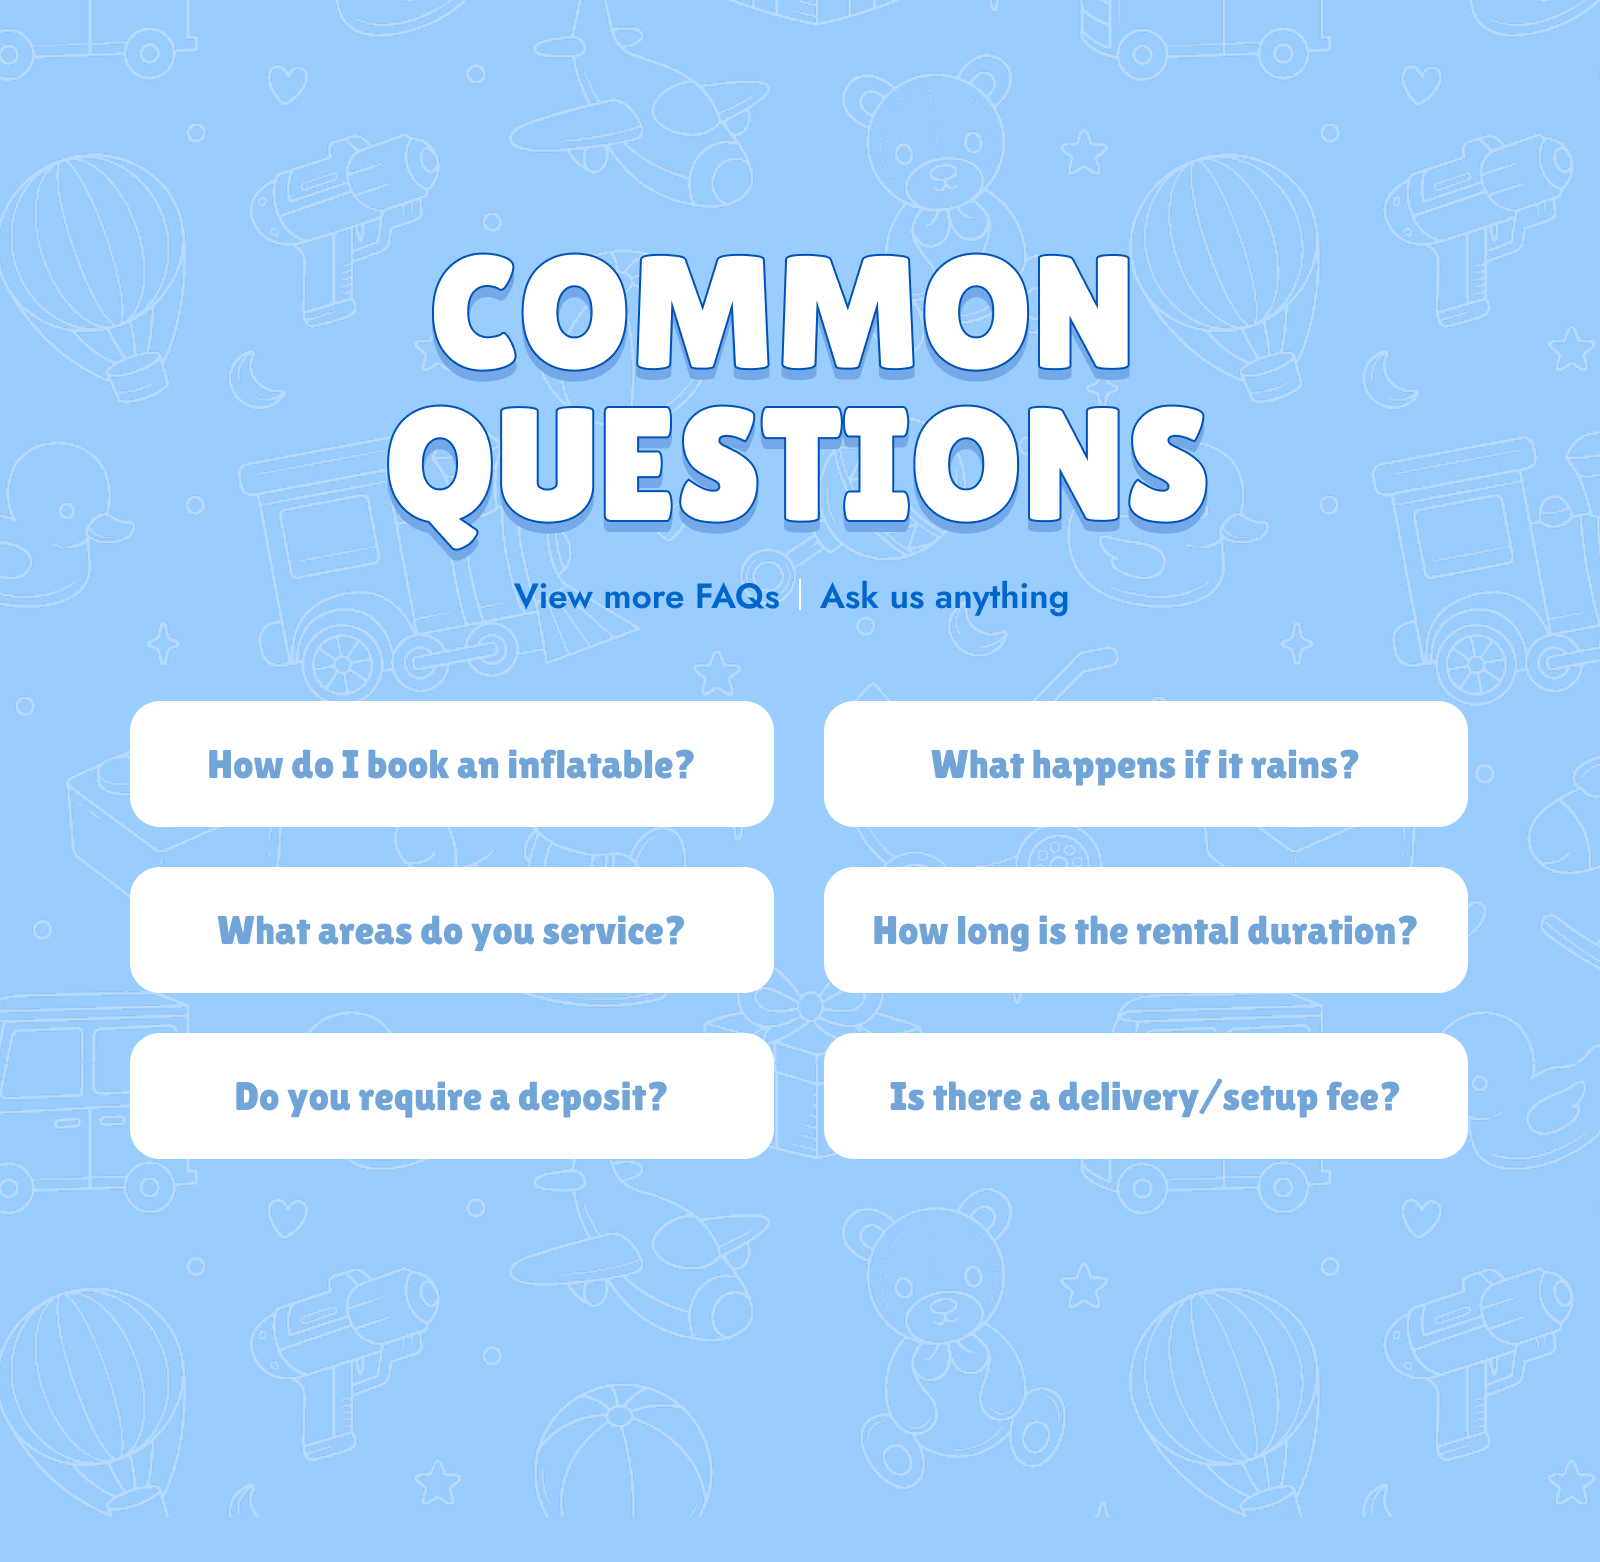
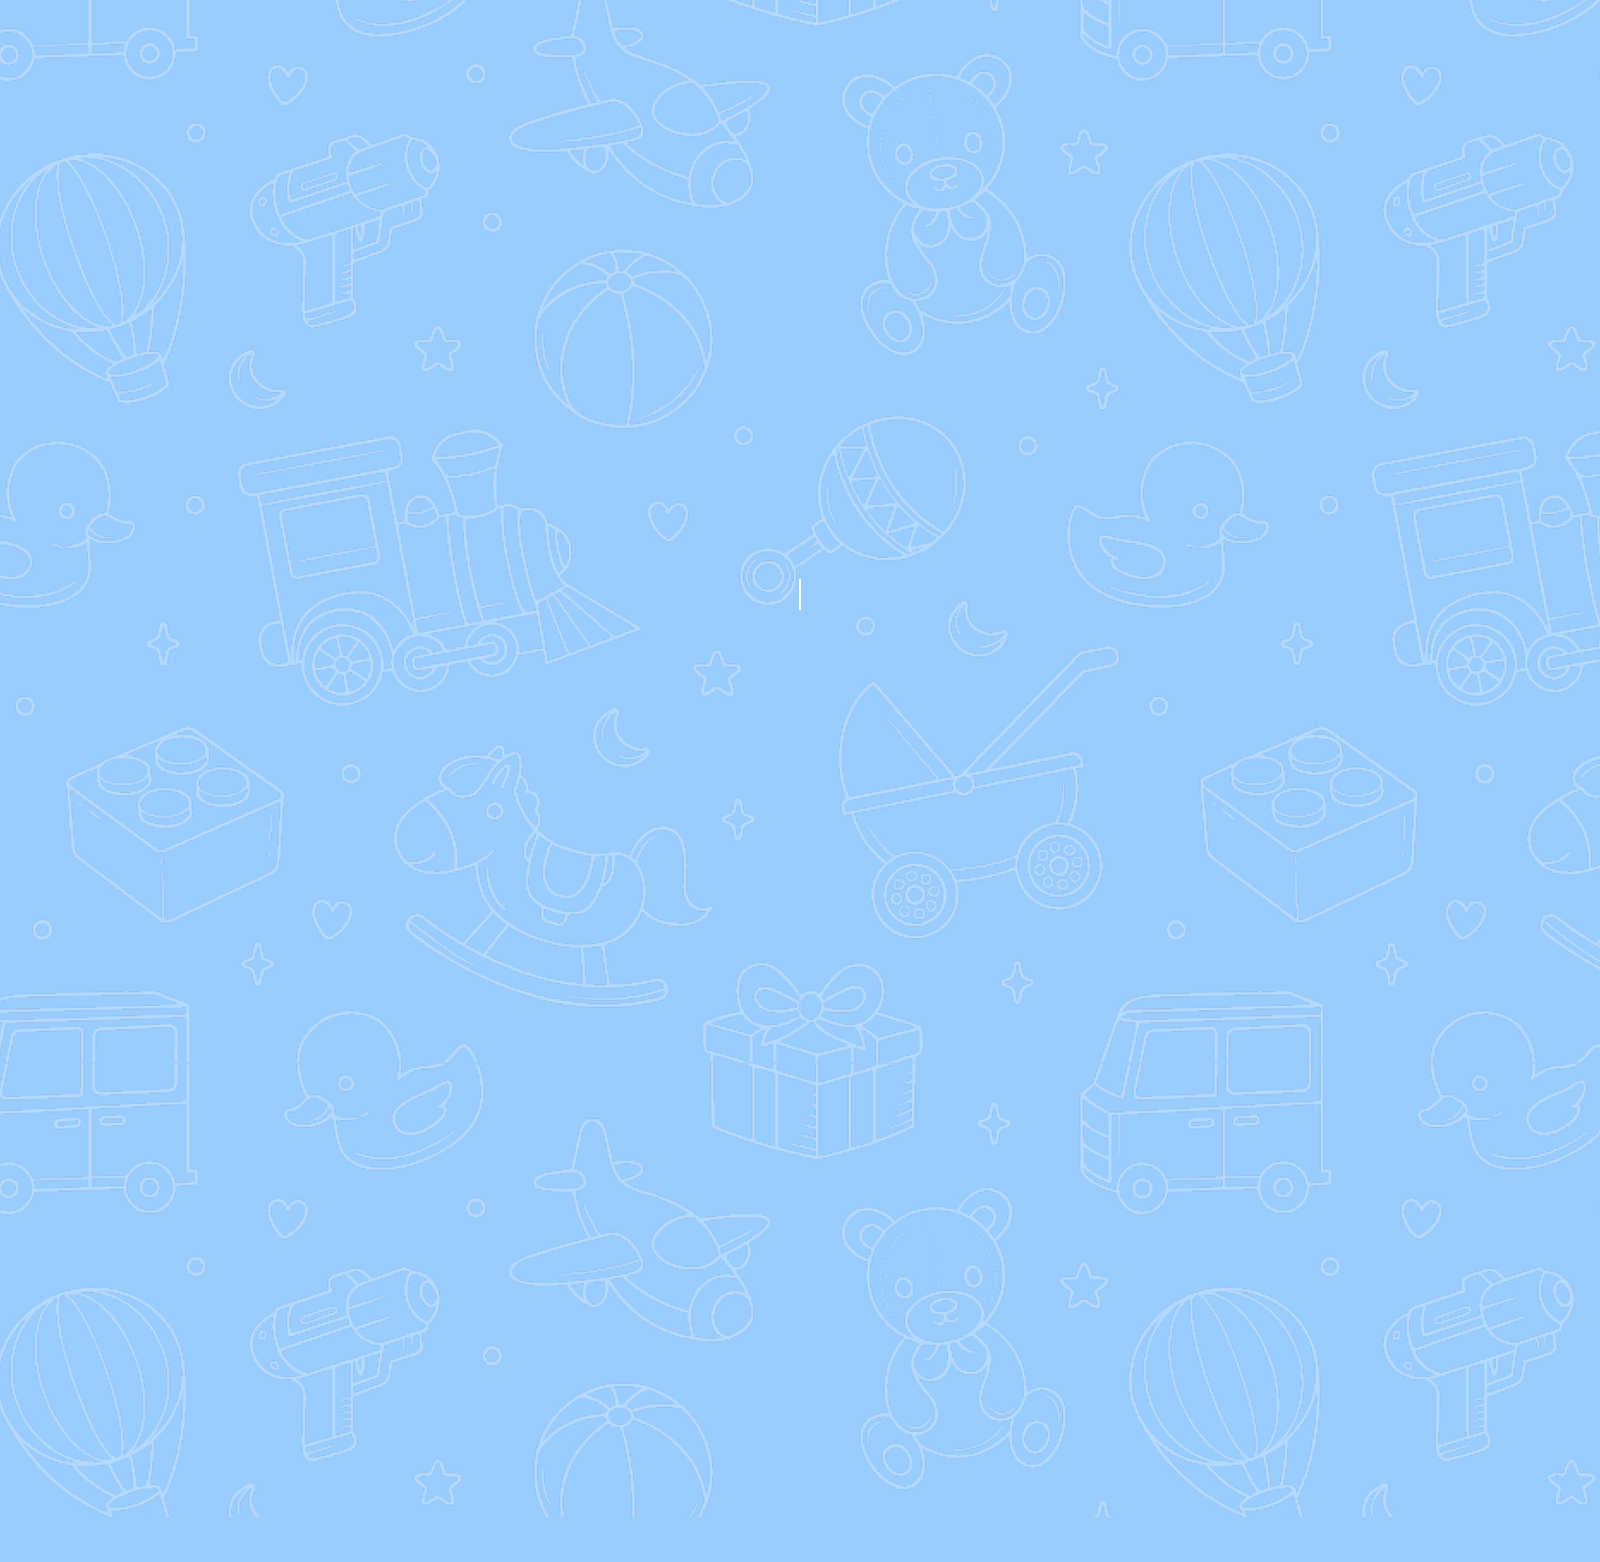
fixed common questions

Changed region(s): [[0.0625, 0.4302, 0.9375, 0.7682], [0.2188, 0.1536, 0.75, 0.3688], [0.3125, 0.3688, 0.6875, 0.3995]]

diff --git a/public/css/home.css b/public/css/home.css
@@ -439,7 +439,6 @@ body {
     margin-bottom: 12px;
 }
 
-
 .menu-tab:hover,
 .menu-tab.active {
     transform: translateY(-2px);
@@ -483,3 +482,58 @@ body {
         transform: translateY(-60px); /* or -5px for subtler bounce */
     }
 }
+
+/***********************************************************************
+ * COMMON QUESTIONS SECTION 
+ ***********************************************************************/
+/* Whole section background */
+
+.common-questions-section {
+    background: url('../images/imgCommonQuestionsBackground.png') no-repeat center center / cover;
+    /* background: sets the image */
+    /* no-repeat: avoids tiling */
+    /* center center: aligns image */
+    /* cover: scales image to fill */
+}
+
+/* Header image (the "COMMON QUESTIONS" graphic) */
+.common-questions-header img {
+    max-width: 880px; /* limit size */
+    width: 100%; /* responsive */
+}
+
+/* Link styling for "View more FAQs" and "Ask us anything" */
+.common-questions-links a {
+    font-family: 'Jost', sans-serif;
+    font-weight: 600; /* semi-bold */
+    color: #0066CC; /* brand blue */
+    text-decoration: none;
+    margin: 0 1rem; /* spacing between links */
+    font-size: 1.5rem;
+}
+
+/* FAQ buttons container is Bootstrap row — no custom needed here */
+
+/* FAQ button styles */
+.faq-button {
+    background-color: #FFFFFF; /* white background */
+    color: #71A4D7; /* sky blue text */
+    border: none; /* remove default border */
+    border-radius: 25px; /* fully rounded edges */
+    padding: 1.5rem 2rem; /* vertical | horizontal space inside */
+    font-size: 1.5rem; /* button text size */
+    font-family: 'Lilita One', cursive; /* button font */
+    box-shadow: 0 4px 8px rgba(0, 0, 0, 0.1); /* soft shadow */
+    transition: transform 0.2s ease, box-shadow 0.2s ease; /* smooth hover animation */
+    width: 100%; /* fill the column (required for 2-column layout) */
+    margin: 5px;
+}
+
+/* Hover effect for FAQ buttons */
+.faq-button:hover {
+    background-color: #71A4D7;         /* accent blue background */
+    color: #FFFFFF;                    /* white text on hover */
+    box-shadow: none;                  /* optional: remove shadow on hover */
+    transform: none;                   /* no movement */
+}
+

diff --git a/resources/js/home.js b/resources/js/home.js
@@ -1,0 +1,23 @@
+let timeout;
+const header = document.getElementById('headerBar');
+const footer = document.getElementById('bottomBar');
+
+function hideBars() {
+    header.style.transform = 'translateY(-100%)';
+    footer.style.transform = 'translateY(100%)';
+}
+
+function showBars() {
+    header.style.transform = 'translateY(0)';
+    footer.style.transform = 'translateY(0)';
+}
+
+function resetIdleTimer() {
+    clearTimeout(timeout);
+    showBars();
+    timeout = setTimeout(hideBars, 2000);
+}
+
+document.addEventListener('mousemove', resetIdleTimer);
+document.addEventListener('scroll', resetIdleTimer);
+resetIdleTimer();

diff --git a/resources/views/home.blade.php b/resources/views/home.blade.php
@@ -214,10 +214,53 @@
         </section>
     @endforeach
 
-
-    <!-- CLOUD DIVIDER -->
+    <!-- INVERTED WHITE CLOUD DIVIDER -->
     <div class="cloud-divider">
         <img src="{{ asset('images/imgWhiteInvertedCloud.png') }}" alt="Cloud Divider" class="img-fluid w-100">
+    </div>
+
+    <!-- COMMON QUESTIONS SECTION -->
+    <section class="common-questions-section text-center py-5">
+        <div class="container">
+
+            <!-- Header Image -->
+            <div class="common-questions-header mb-3">
+                <img src="{{ asset('images/imgCommonQuestionsHeader.png') }}" alt="Common Questions Header" class="img-fluid">
+            </div>
+
+            <!-- Sub-links -->
+            <div class="common-questions-links mb-4">
+                <a href="#">View more FAQs</a>
+                <a href="#">Ask us anything</a>
+            </div>
+
+            <!-- FAQ Buttons in 2-per-row layout -->
+            <div class="row gx-4 gy-3 justify-content-center common-questions-buttons">
+                @php
+                    $questions = [
+                        'How do I book an inflatable?',
+                        'What happens if it rains?',
+                        'What areas do you service?',
+                        'How long is the rental duration?',
+                        'Do you require a deposit?',
+                        'Is there a delivery/setup fee?',
+                    ];
+                @endphp
+
+                @foreach($questions as $question)
+                    <div class="col-12 col-md-6">
+                        <button class="faq-button btn fw-bold w-100">
+                            {{ $question }}
+                        </button>
+                    </div>
+                @endforeach
+            </div>
+        </div>
+    </section>
+
+    <!-- WHITE CLOUD DIVIDER -->                   
+    <div class="cloud-divider">
+        <img src="{{ asset('images/imgWhiteLayerClouds.png') }}" alt="Cloud Divider" class="img-fluid w-100" style="margin-top: 2rem">
     </div>
 
     <!-- FLOATING CONTACT FOOTER -->
